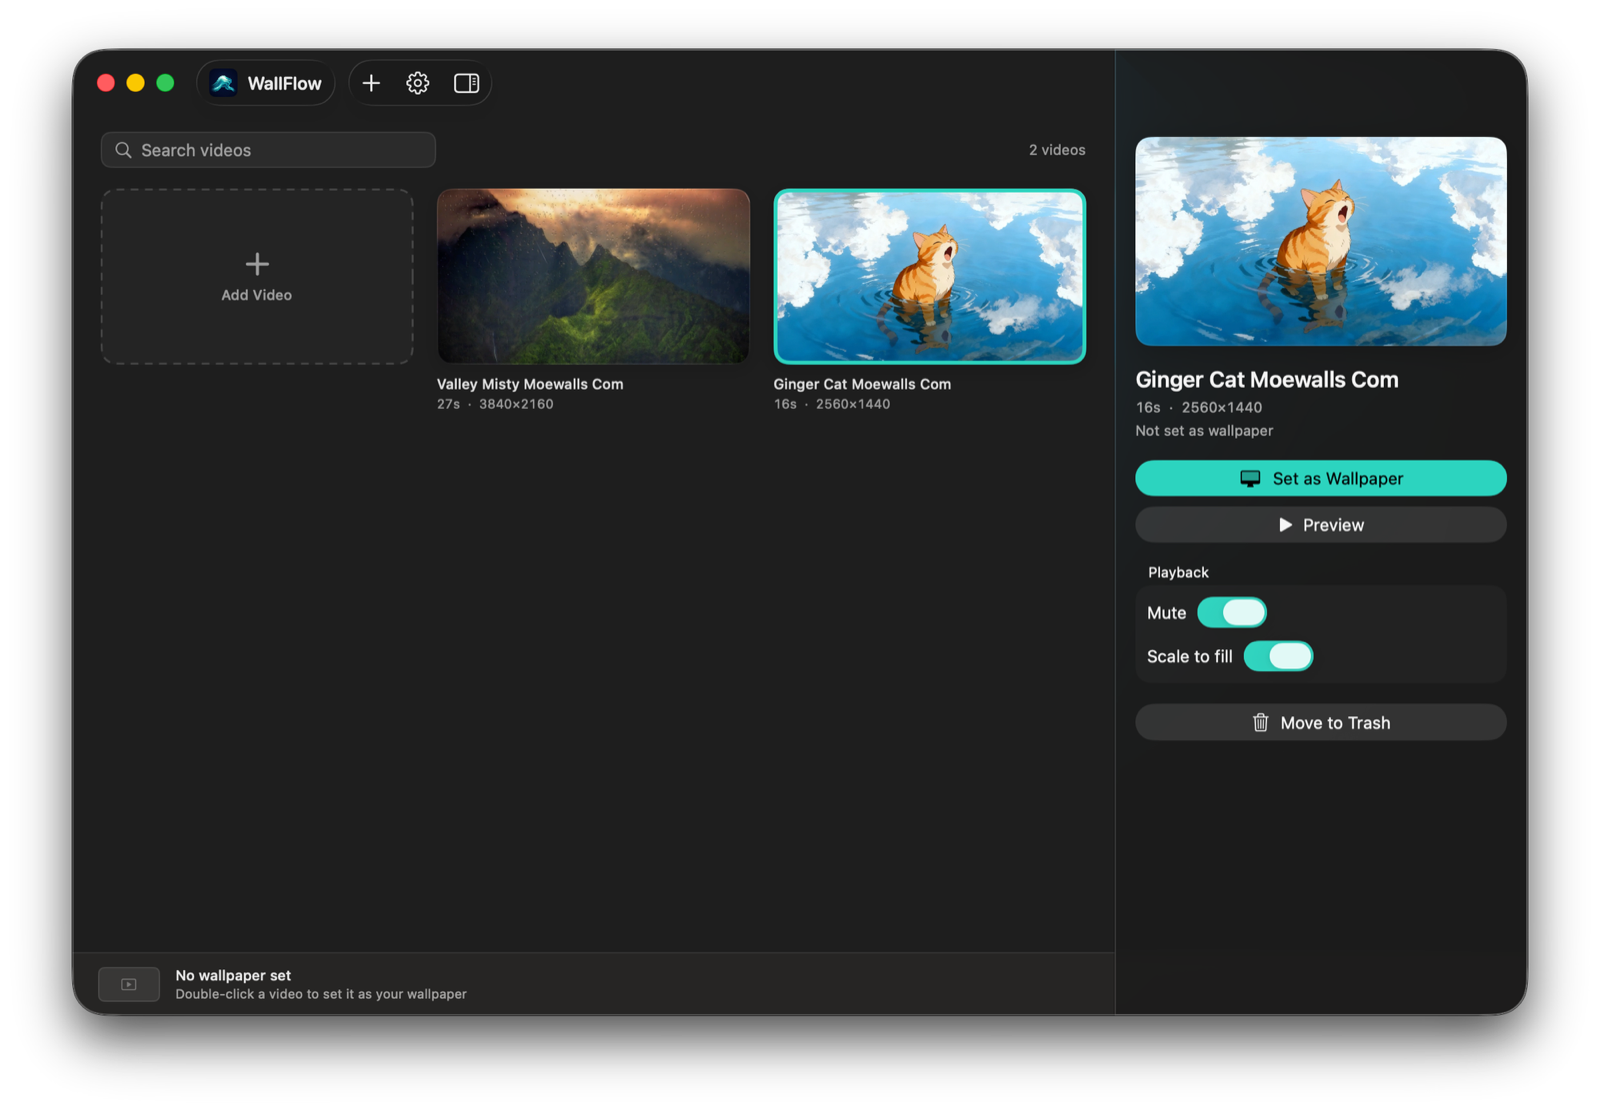
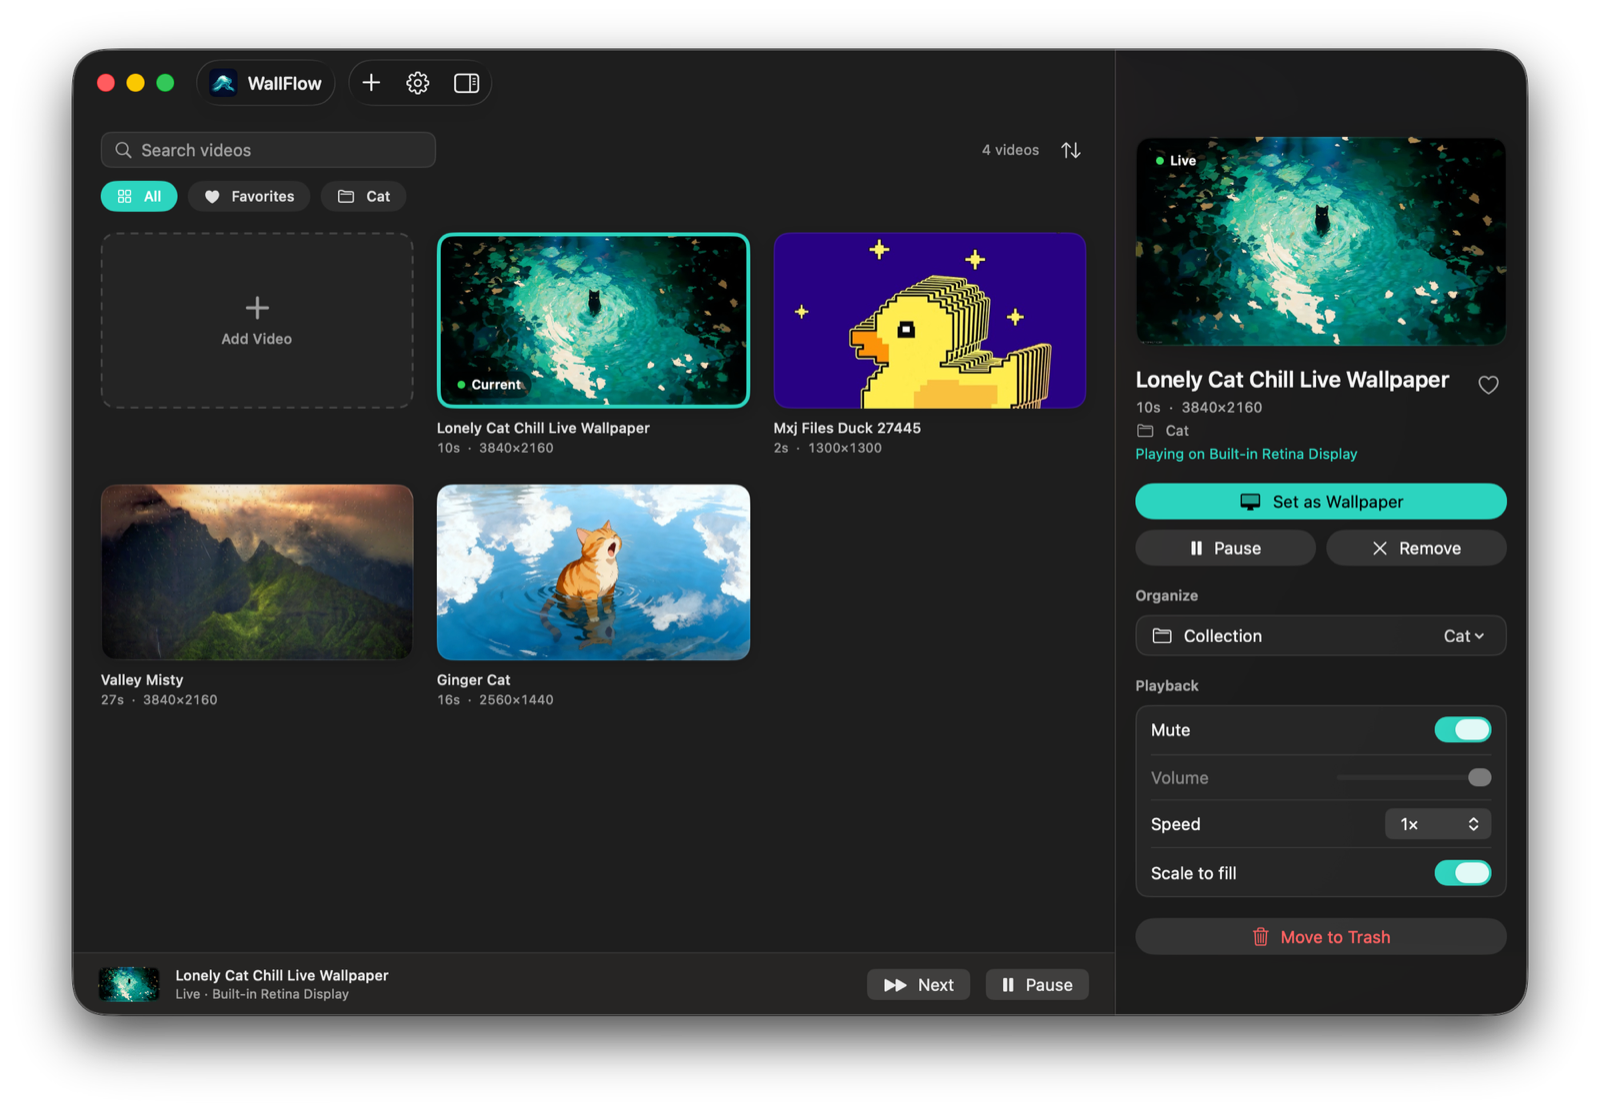
Update README to reflect new features and improvements in WallFlow
- Enhanced description of WallFlow's functionality, including support for favorites, collections, and automation via Shortcuts/Siri.
- Updated screenshot alt text for better clarity.
- Added details about the app's menu-bar-only operation and Finder Quick Action for setting wallpapers directly from video files.
- Clarified instructions for using the latest release to avoid launch issues on some Macs.

This update aims to improve user understanding and accessibility of WallFlow's features.

diff --git a/README.md b/README.md
@@ -16,12 +16,12 @@
   <a href="LICENSE"><img alt="MIT license" src="https://img.shields.io/badge/license-MIT-green"></a>
 </p>
 
-macOS only accepts still images as the desktop picture. WallFlow is a **live wallpaper (animated wallpaper) app for Mac** that places a click-through video window just under your desktop icons, so Finder stays fully usable while a video wallpaper loops like the real thing. It supports multiple monitors, wallpaper rotation and playlists, and pauses itself whenever you are not looking at the desktop to save battery. It is built with SwiftUI and AppKit, plays through AVFoundation, and runs natively on Apple Silicon and Intel Macs.
+macOS only accepts still images as the desktop picture. WallFlow is a **live wallpaper (animated wallpaper) app for Mac** that places a click-through video window just under your desktop icons, so Finder stays fully usable while a video wallpaper loops like the real thing. It supports multiple monitors, wallpaper rotation and playlists, favorites and collections, Shortcuts/Siri automation, and pauses itself whenever you are not looking at the desktop to save battery. It stays out of your Dock and ⌘-Tab unless its window is open. It is built with SwiftUI and AppKit, plays through AVFoundation, and runs natively on Apple Silicon and Intel Macs.
 
 ## Screenshots
 
 <p align="center">
-  <img src="docs/screenshots/library.png" alt="WallFlow library: a grid of clips on the left, details and playback controls on the right" width="860">
+  <img src="docs/screenshots/library.png" alt="WallFlow library grid with Favorites and collection filter chips, a selected clip's details panel showing Live status and playback controls, and the now-playing bar with a Next button" width="860">
 </p>
 
 <!--
@@ -81,13 +81,17 @@ More screenshots: add PNGs to docs/screenshots/ and uncomment.
 
 - **Wallpaper rotation**: change the wallpaper every minute up to once a day, shuffled or in order, from all videos, your favorites, or a single collection
 - **Next Wallpaper** button in the app and the menu bar
+- **Shortcuts, Spotlight, and Siri**: Set Wallpaper, Next Wallpaper, and Pause/Resume Wallpaper actions, so you can trigger WallFlow from the Shortcuts app, a keyboard-shortcut tool, or your voice
+- **Finder Quick Action**: right-click a video file and choose **Services → Set as WallFlow Wallpaper** to import and set it without opening the app first
 - Pauses automatically on other apps, fullscreen, lock, display sleep, Low Power Mode, and (optionally) battery
 - **Launch at login**
 
 **Everything else**
 
 - Native macOS look that follows your light or dark appearance
+- Runs as a **menu-bar-only app**: no Dock icon or ⌘-Tab entry unless the main window or Settings is open
 - Menu-bar popover with the current wallpaper, play/pause, next, import, and settings
+- Warns when a clip's first and last frames don't match, so you know before a loop turns out to jump
 - **Sparkle** auto-updates from GitHub Releases
 - No Screen Recording, Accessibility, or Full Disk Access permissions required
 - Sandboxed, with your library stored privately in the app's container
@@ -123,7 +127,9 @@ WallFlow is deliberately focused: a lightweight, native, battery-friendly video 
 2. Unzip it and drag **WallFlow** into **Applications**.
 3. Open WallFlow.
 
-> **Use version 1.3.1 or newer.** Release 1.3.0 (and possibly 1.2.0) is ad-hoc signed in a way that stops the app launching on some Macs ("WallFlow cannot be opened because of a problem"). 1.3.1 fixes it.
+> **Use the [latest release](https://github.com/ritulsingh/WallFlow/releases/latest).** Releases 1.2.0 and 1.3.0 are ad-hoc signed in a way that stops the app launching on some Macs ("WallFlow cannot be opened because of a problem"). 1.3.1 and later fix it.
+
+WallFlow does not appear in the Dock or ⌘-Tab after it opens — it runs from the menu bar. Look for its icon in the menu bar to open it again. See [Using WallFlow](#using-wallflow).
 
 ### First launch and Gatekeeper
 
@@ -194,6 +200,26 @@ Rotation only changes displays that already have a wallpaper, and it waits while
 ### Menu bar
 
 The menu bar popover shows the current wallpaper, its Live or Paused state, and what each display is playing. It also offers **Play/Pause**, **Next Wallpaper**, **Import Video…**, **Remove Wallpaper**, **Open WallFlow**, **Settings…**, **Check for Updates…**, and **Quit**.
+
+### Dock icon
+
+WallFlow launches as a menu-bar-only app: it has no Dock icon and doesn't appear in ⌘-Tab. Opening the main window or Settings brings the Dock icon back automatically, and it disappears again once you close them. You never need to quit WallFlow to keep it out of the way — closing its window is enough.
+
+### Shortcuts, Spotlight, and Siri
+
+WallFlow adds three actions to the Shortcuts app (Automation → search "WallFlow"):
+
+| Action | What it does |
+| --- | --- |
+| **Set Wallpaper** | Sets a chosen video from your library as the wallpaper. Pick it from a list, with thumbnails, when building the shortcut. |
+| **Next Wallpaper** | Switches to the next video, the same as the **Next** button. |
+| **Pause or Resume Wallpaper** | Toggles playback. |
+
+Use them to build your own shortcuts (a keyboard shortcut, a Stream Deck button, a time-of-day automation), trigger them from Spotlight, or ask Siri, for example "Next wallpaper in WallFlow." WallFlow must have launched at least once for the actions to appear.
+
+### Finder Quick Action
+
+Right-click any MP4, MOV, or M4V file in Finder and choose **Services → Set as WallFlow Wallpaper**. WallFlow imports the file and sets it as your wallpaper in one step, without you needing to open the app first. If it doesn't appear right away, open WallFlow once so macOS picks up the service, or log out and back in.
 
 ## Settings reference
 
@@ -291,12 +317,15 @@ macOS still wallpaper
 ```
 
 - **One window per display.** Each `WallpaperWindow` is a borderless, click-through window one level below Finder's desktop-icon layer. It joins all Spaces and never becomes key or main.
-- **Gapless looping.** Each display runs an `AVQueuePlayer` with an `AVPlayerLooper`, so playback stays seamless. Only displays with an assigned clip decode video.
+- **Gapless looping.** Each display runs an `AVQueuePlayer` with an `AVPlayerLooper`, so playback stays seamless. Only displays with an assigned clip decode video. Fullscreen coverage checks and other idle work are skipped entirely when no wallpaper is set.
 - **Pause logic.** `PlaybackEnvironment` watches power source, Low Power Mode, the frontmost app, lock and sleep notifications, and fullscreen coverage. Fullscreen detection compares window bounds only, so **no Screen Recording permission** is needed. `SettingsStore.shouldEnginePlay` combines everything into one decision.
 - **Frame-rate cap.** AVPlayer has no frame-rate setting, so a lower cap is applied through an `AVVideoComposition` frame duration, and only when you enable it.
 - **Rotation.** `RotationScheduler` runs a timer and asks the store for the next clip from your chosen pool.
 - **Desktop picture sync.** `DesktopStill` renders a full-resolution frame per display and applies it with `NSWorkspace`, remembering your original picture so it can be restored.
 - **Conversion.** `MediaConverter` turns GIFs into MP4 with `AVAssetWriter` and shells out to ffmpeg for WebM, MKV, and AVI.
+- **Loop-mismatch check.** On import, WallFlow samples the first and last frame and flags clips likely to jump at the loop point, shown as a warning in the details panel.
+- **Menu-bar-only by default.** WallFlow launches with `LSUIElement` set, so it has no Dock icon. `AppDelegate` watches window visibility and switches `NSApp.activationPolicy` between `.regular` and `.accessory` as the main window or Settings opens and closes.
+- **Automation.** `WallFlowIntents.swift` exposes App Intents (Set Wallpaper, Next Wallpaper, Pause/Resume) to Shortcuts, Spotlight, and Siri. The Finder Quick Action is a Services-menu item declared in `Info.plist` and handled by `AppDelegate`.
 
 ## Privacy and permissions
 
@@ -363,6 +392,15 @@ Turn on **Settings → General → Also set as desktop picture**.
 **Launch at login does not stick.**
 Approve WallFlow in **System Settings → General → Login Items**.
 
+**I don't see WallFlow in the Dock or ⌘-Tab.**
+That's intentional — WallFlow runs as a menu-bar-only app. Click its menu bar icon and choose **Open WallFlow**; the Dock icon reappears while that window is open. See [Dock icon](#dock-icon).
+
+**WallFlow doesn't show up in the Shortcuts app.**
+Open WallFlow at least once first, so macOS registers its Shortcuts actions, then search "WallFlow" in the Shortcuts app.
+
+**"Set as WallFlow Wallpaper" isn't in Finder's right-click menu.**
+It's under **Services**, not the top-level Quick Actions row. Open WallFlow once, or log out and back in, so macOS refreshes its Services list.
+
 ## FAQ
 
 **Can I use a video as my wallpaper on a Mac?**
@@ -389,6 +427,9 @@ The video window appears on every Space. Turn on **Also set as desktop picture**
 **Is WallFlow free?**
 Yes. It is open source under the MIT license.
 
+**Can I control WallFlow with Shortcuts or Siri?**
+Yes. It adds Set Wallpaper, Next Wallpaper, and Pause/Resume Wallpaper actions to the Shortcuts app, which you can also trigger from Spotlight or Siri. See [Shortcuts, Spotlight, and Siri](#shortcuts-spotlight-and-siri).
+
 ## Build from source
 
 Requirements: macOS 14+ and Xcode 16+.
@@ -412,7 +453,7 @@ Xcode follows the `LiveWallpaper/` folder, so new Swift files are picked up auto
 ```
 WallFlow.xcodeproj        # scheme and target: WallFlow
 LiveWallpaper/            # app sources
-  App/                    # @main, AppDelegate, Sparkle updater
+  App/                    # @main, AppDelegate, Sparkle updater, Shortcuts/App Intents
   Engine/                 # desktop windows, video loop, pause environment,
                           #   rotation timer, desktop-picture sync
   Store/                  # settings, library, sort/filter, media conversion
